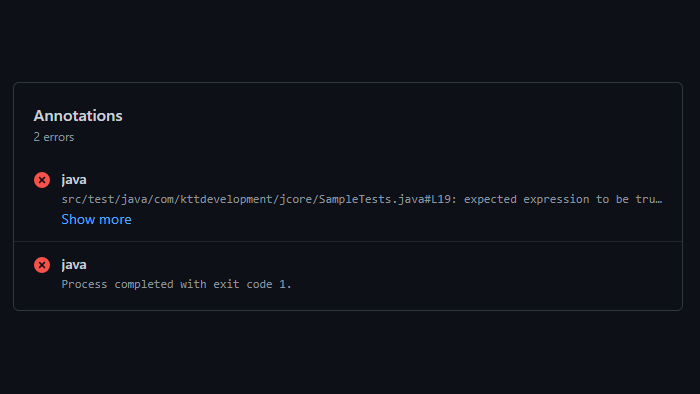
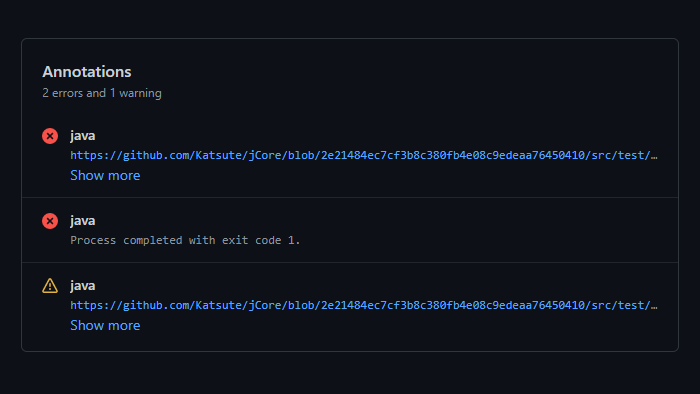
update JUnit

diff --git a/src/main/java/com/kttdevelopment/jcore/Workflow.java b/src/main/java/com/kttdevelopment/jcore/Workflow.java
@@ -328,7 +328,7 @@ public abstract class Workflow {
     }
 
     /**
-     * Prints a warning message from a supplier.
+     * Prints a warning message from a supplier if running on CI.
      *
      * @param warning message to print
      * @return warning message
@@ -378,7 +378,7 @@ public abstract class Workflow {
     }
 
     /**
-     * Prints an error message from a supplier.
+     * Prints an error message from a supplier if running on CI.
      *
      * @param error message to print
      * @return error message

diff --git a/README.md b/README.md
@@ -35,11 +35,46 @@ Assertions.assertTrue(false, Workflow.errorSupplier("expected expression to be t
 Assumptions.assumeTrue(false, Workflow.warningSupplier("expected expression to be true"));
 ```
 
-|Before|After|
-|:-:|:-:|
-|![before](https://raw.githubusercontent.com/Katsute/jCore/main/before.png)|![after](https://raw.githubusercontent.com/Katsute/jCore/main/after.png)|
+### without jCore
+
+```java
+Assertions.assertTrue(false, "expected expression to be true");
+
+Assumptions.assumeTrue(false, "expected expression to be true");
+```
+
+ - no warning messages
+ - requires reading maven log to find warnings and errors
+
+<div align="center">
+    <a href="https://github.com/Katsute/jCore/blob/main/before.png">
+        <img src="https://raw.githubusercontent.com/Katsute/jCore/main/before.png">
+    </a>
+</div>
+
+### with jCore
+
+```java
+Assertions.assertTrue(false, Workflow.errorSupplier("expected expression to be true"));
+
+Assumptions.assumeTrue(false, Workflow.warningSupplier("expected expression to be true"));
+```
+
+ - annotations show warnings and errors
+ - direct links to line error
+
+<div align="center">
+    <a href="https://github.com/Katsute/jCore/blob/main/after.png">
+        <img src="https://raw.githubusercontent.com/Katsute/jCore/main/after.png">
+    </a>
+    <a href="https://github.com/Katsute/jCore/blob/main/after.link.png">
+        <img src="https://raw.githubusercontent.com/Katsute/jCore/main/after.link.png">
+    </a>
+</div>
 
 <hr>
+
+## Contributing
 
 - Found a bug? Post it in [issues](https://github.com/Katsute/jCore/issues).
 - Want to further expand our project? [Fork](https://github.com/Katsute/jCore/fork) this repository and submit a [pull request](https://github.com/Katsute/jCore/pulls).
